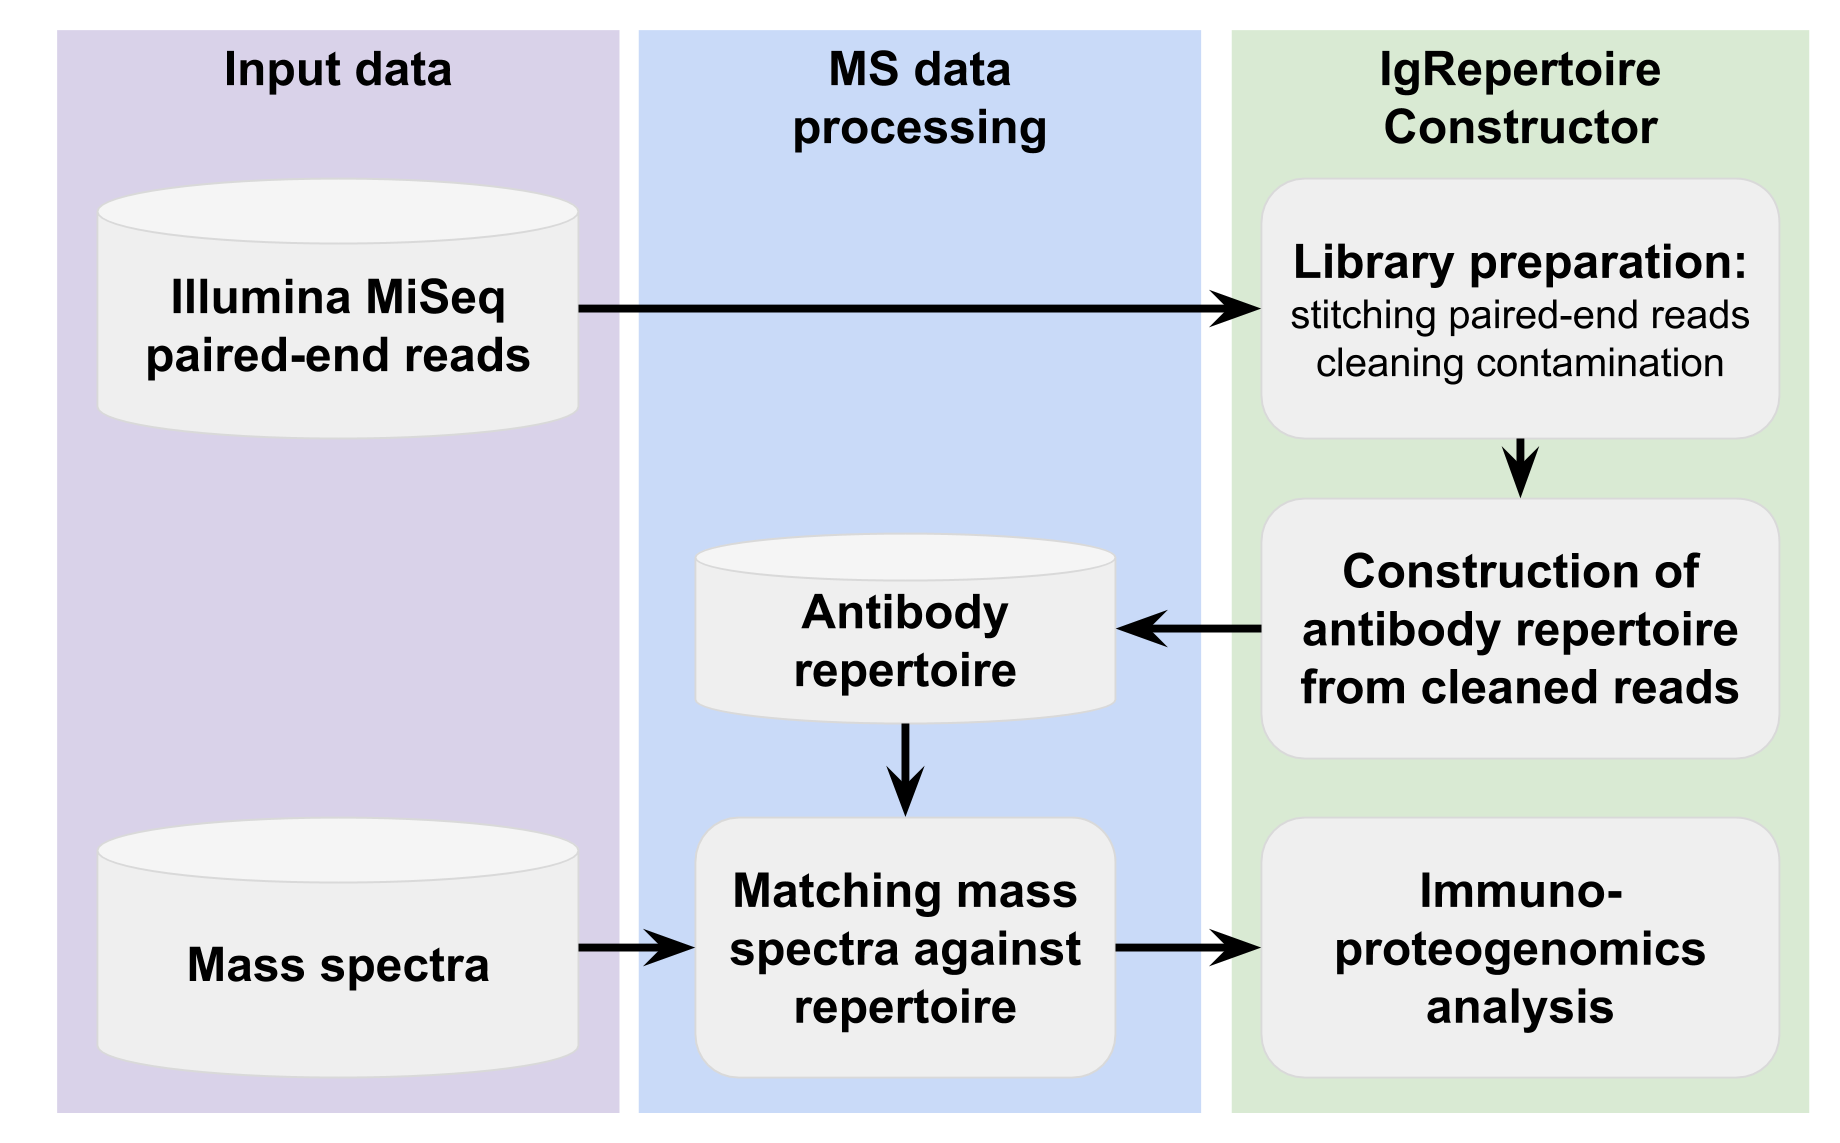
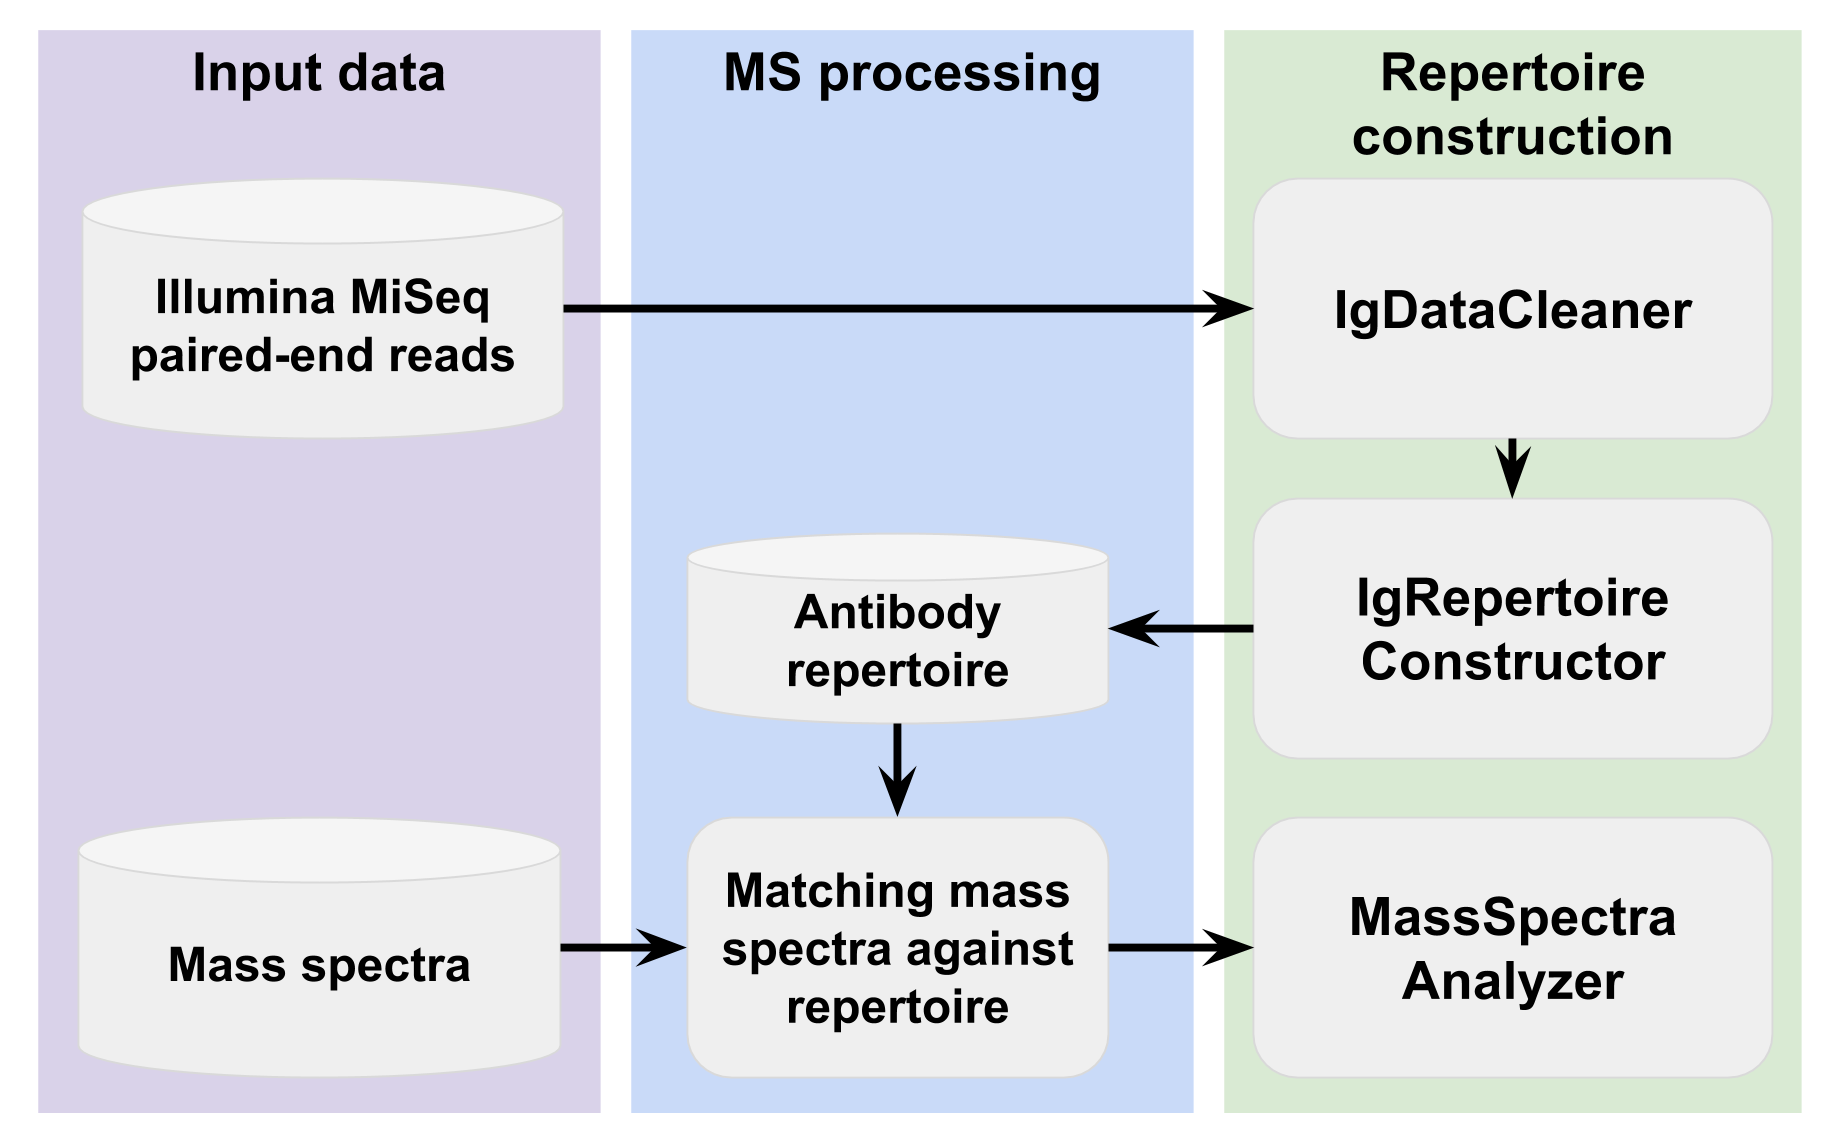
upd of pipeline and description of tools

diff --git a/index.html b/index.html
@@ -20,15 +20,20 @@
 
     <section class="main-content">
     
-    <p><b>IgRepertoireConstructor</b> performs error-correction of immunosequencing reads and uses mass spectra to validate the constructed antibody repertoires. IgRepertoireConstructor pipeline is presented below:</br>
+    <p><b>IgRepertoireConstructor</b> performs error-correction of immunosequencing reads and uses mass spectra to validate the constructed antibody repertoires. IgRepertoireConstructor pipeline includes the following steps:
+    <ul>
+            <li> <b>IgDataCleaner:</b> merging paired-end Illumina MiSeq reads and cleaning contaminations.</li>
+            <li> <b>IgRepertoireConstructor:</b> construction of antibody repertoire from cleaned reads. Constructed antibody repertoire can be used as a database for matching of mass spectra, e.g., using MS-GF+ tool.</li> 
+            <li> <b>MassSpectraAnalyzer:</b> analysis of results of MS matching.</li>
+    </ul>
     <table align = center>
     <tr><td align = center><img src="figures/pipeline.png" width = "80%" alt="pipeline"></td></tr>
     </table></br>
 
     <ul>
-        <li><b>Library preparation</b>. 
-            IgRepertoireConstructor takes Illumina MiSeq paired end reads as an input and expect that each left and right reads overlap and cover variable region of antibody. 
-            IgRepertoireConstructor stitches paired-end reads and removes contaminations using alignment of stitched reads against Ig germline database. 
+        <li><b>IgDataCleaner</b>. 
+            IgDataCleaner takes Illumina MiSeq paired end reads as an input and expect that each left and right reads overlap and cover variable region of antibody. 
+            IgDataCleaner stitches paired-end reads and removes contaminations using alignment of stitched reads against Ig germline database. 
             This procedure significantly improves quality of input reads (left) and allows one to constructs reads covering variable region of antibody (right):</li>
         <table align = center border = "0">
         <tr> 
@@ -41,7 +46,7 @@
         </tr>
         </table></br>
 
-        <li><b>Construction of antibody repertoire.</b> 
+        <li><b>IgRepertoireConstructor.</b> 
             IgRepertoireConstructor takes as an input reads covering variable region of antibodies and corrects Illumina sequencing errors. 
             Algorithm constructs Hamming graph on input reads and uses accurate clustering techniques for reconstruction of original antibody clusters:</li>
 
@@ -56,9 +61,27 @@
         </tr>
         </table></br>
 
-        <li><b>Immunoproteogenomics analysis.</b> Constructed repertoire can be used as database for peptide identification from mass spectra. IgRepertoireConstructor takes as an input MZID file and computes various statistics about constructed repertoire.</li>
+        <li><b>MassSpectraAnalyzer.</b> This step performs immunoproteogenomics analysis to validate constructed repertoire using mass spectra. 
+            It takes alignment of mass spectra against constructed repertoire in <a href = "http://www.psidev.info/mzidentml">mzIdentML 1.1 format</a> (e.g., generated by MS-GF+) as an input and outputs a set of metrics and graphs that show how close are the constructed repertoire and provided mass spectra:</li>
+
+        <table align = center border = "0">
+        <tr>
+            <td align = center><img src="figures/ms_analysis/peptide_length_Total.png" alt = "peptide_length_distribution"></td>
+            <td align = center><img src="figures/ms_analysis/PSM_cov_Total.png" alt = "psm_coverage_histogram"></td> 
+        </tr>
+        <tr>
+            <td align = center><small>Histogram of peptide length distribution.</small></td>
+            <td><small>Histogram of variable region coverage by PSMs. Grey bars corresponds to expected positions of CDRs.</small></td>
+        </tr>
+        </table></br>
     </ul>
     </p>
+
+<p align = "justify">
+    IgRepertoireConstructor manual can be found <a href = 'ig_repertoire_constructor_manual.html'>here</a>.</br></br>
+
+    <b>Citation:</b> Yana Safonova, Stefano Bonissone, Eugene Kurpilyansky, Ekaterina Starostina, Alla Lapidus, Jeremy Stinson, Laura DePalatis, Wendy Sandoval, Jennie Lill and Pavel A. Pevzner. IgRepertoireConstructor: a novel algorithm for antibody repertoire construction and immunoproteogenomics analysis. Bioinformatics. 2015 Jun 15;31(12):i53-i61. doi: 10.1093/bioinformatics/btv238.
+</p>
 
       <footer class="site-footer">
             <p align = center>
